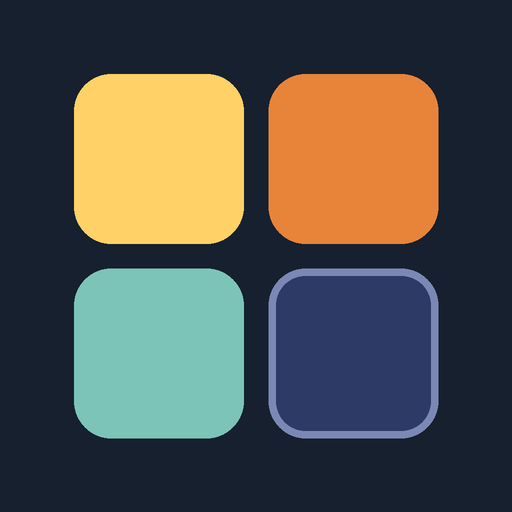
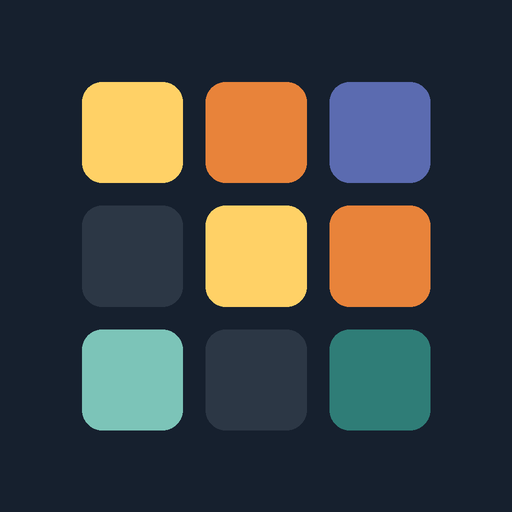
Ny ikon: månadsrutnät, och namnet Skiftschema på hemskärmen
Nio rutor som ett utsnitt av månadsvyn ersätter de fyra rutorna, så att
ikonen inte förväxlas med en app-samlare eller telefonens egen kalender.
Nattrutan är ljusare för att ha minst 3:1 mot botten. Namnet under ikonen
är nu Skiftschema i stället för Skift.

diff --git a/index.html b/index.html
@@ -14,7 +14,7 @@
 <link rel="icon" href="favicon.png">
 <meta name="apple-mobile-web-app-capable" content="yes">
 <meta name="mobile-web-app-capable" content="yes">
-<meta name="apple-mobile-web-app-title" content="Skift">
+<meta name="apple-mobile-web-app-title" content="Skiftschema">
 <meta name="theme-color" content="#e9edf1" media="(prefers-color-scheme: light)">
 <meta name="theme-color" content="#11161f" media="(prefers-color-scheme: dark)">
 

diff --git a/build/ikoner.py b/build/ikoner.py
@@ -1,4 +1,5 @@
-"""Ritar appens ikoner: fyra rutor i passens färger på mörk botten.
+"""Ritar appens ikoner: nio rutor på mörk botten, som ett utsnitt av månadsvyn
+i appen. Sju rutor har passens färger, två är lediga dagar.
 
 Gjord av J. Stork.
 
@@ -20,9 +21,15 @@ from PIL import Image, ImageDraw
 ROT = os.path.dirname(os.path.dirname(os.path.abspath(__file__)))
 
 BOTTEN = "#16202e"
-# Samma färger som passen i style.css: förmiddag, eftermiddag, helgpass dag, natt.
-RUTOR = ["#ffd166", "#e8833a", "#7cc4b8", "#2e3a66"]
-KANT = "#7b88b5"   # ljus kant runt den mörka nattrutan, så att den syns mot botten
+# Rutorna rad för rad, som i månadsvyn. Samma färger som passen i style.css,
+# utom natt som är ljusare (#5b6bb0 i stället för #2e3a66) för att ha minst 3:1
+# mot botten. Lediga dagar är medvetet svaga: de är bakgrund, inte information.
+FM, EM, HD, N, HN = "#ffd166", "#e8833a", "#7cc4b8", "#5b6bb0", "#2f7d77"
+LEDIG = "#2c3745"
+RUTOR = [FM, EM, N,
+         LEDIG, FM, EM,
+         HD, LEDIG, HN]
+KOLUMNER = 3
 
 RITYTA = 1024      # ritas stort och förminskas, så att kanterna blir mjuka
 
@@ -32,15 +39,13 @@ def rita(marginal):
     bild = Image.new("RGB", (RITYTA, RITYTA), BOTTEN)
     penna = ImageDraw.Draw(bild)
     yta = RITYTA * (1 - 2 * marginal)
-    mellanrum = yta * 0.07
-    sida = (yta - mellanrum) / 2
+    mellanrum = yta * 0.066
+    sida = (yta - mellanrum * (KOLUMNER - 1)) / KOLUMNER
     start = RITYTA * marginal
     for nummer, farg in enumerate(RUTOR):
-        x = start + (nummer % 2) * (sida + mellanrum)
-        y = start + (nummer // 2) * (sida + mellanrum)
-        kant = KANT if farg == RUTOR[3] else None
-        penna.rounded_rectangle([x, y, x + sida, y + sida], radius=sida * 0.22,
-                                fill=farg, outline=kant, width=round(sida * 0.045))
+        x = start + (nummer % KOLUMNER) * (sida + mellanrum)
+        y = start + (nummer // KOLUMNER) * (sida + mellanrum)
+        penna.rounded_rectangle([x, y, x + sida, y + sida], radius=sida * 0.2, fill=farg)
     return bild
 
 
@@ -50,13 +55,13 @@ def spara(bild, namn, storlek):
 
 
 def main():
-    vanlig = rita(0.145)
+    vanlig = rita(0.16)
     spara(vanlig, "favicon.png", 32)
     spara(vanlig, "apple-touch-icon.png", 180)
     spara(vanlig, "icon-192.png", 192)
     spara(vanlig, "icon-512.png", 512)
     # Android kan beskära ikonen till en cirkel. Då måste motivet ligga i mitten.
-    spara(rita(0.24), "icon-maskable-512.png", 512)
+    spara(rita(0.235), "icon-maskable-512.png", 512)
 
 
 if __name__ == "__main__":

diff --git a/build/bygg.py b/build/bygg.py
@@ -228,7 +228,7 @@ __ROBOTS__
 <link rel="icon" href="favicon.png">
 <meta name="apple-mobile-web-app-capable" content="yes">
 <meta name="mobile-web-app-capable" content="yes">
-<meta name="apple-mobile-web-app-title" content="Skift">
+<meta name="apple-mobile-web-app-title" content="Skiftschema">
 <meta name="theme-color" content="#e9edf1" media="(prefers-color-scheme: light)">
 <meta name="theme-color" content="#11161f" media="(prefers-color-scheme: dark)">
 
